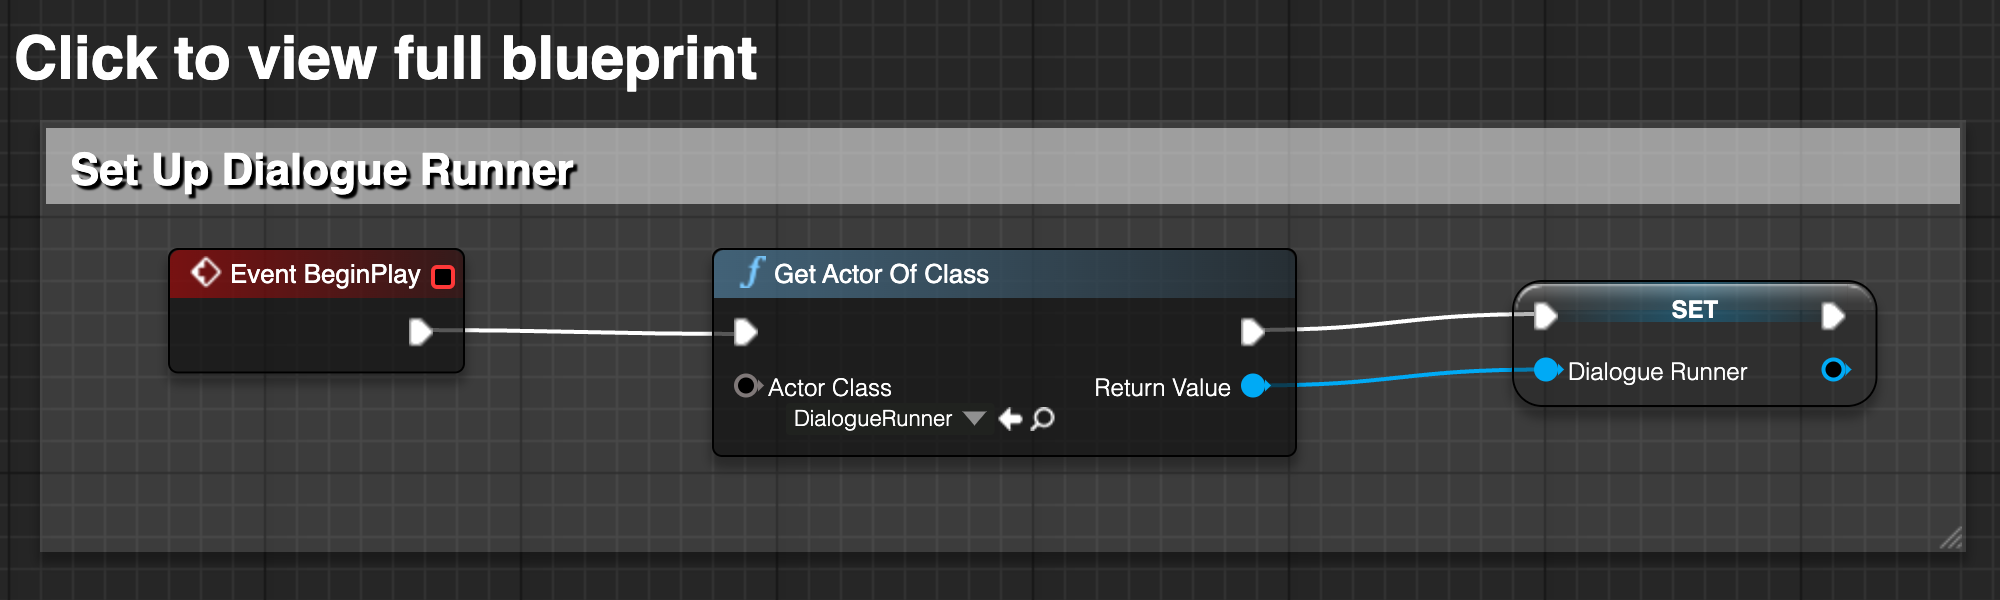
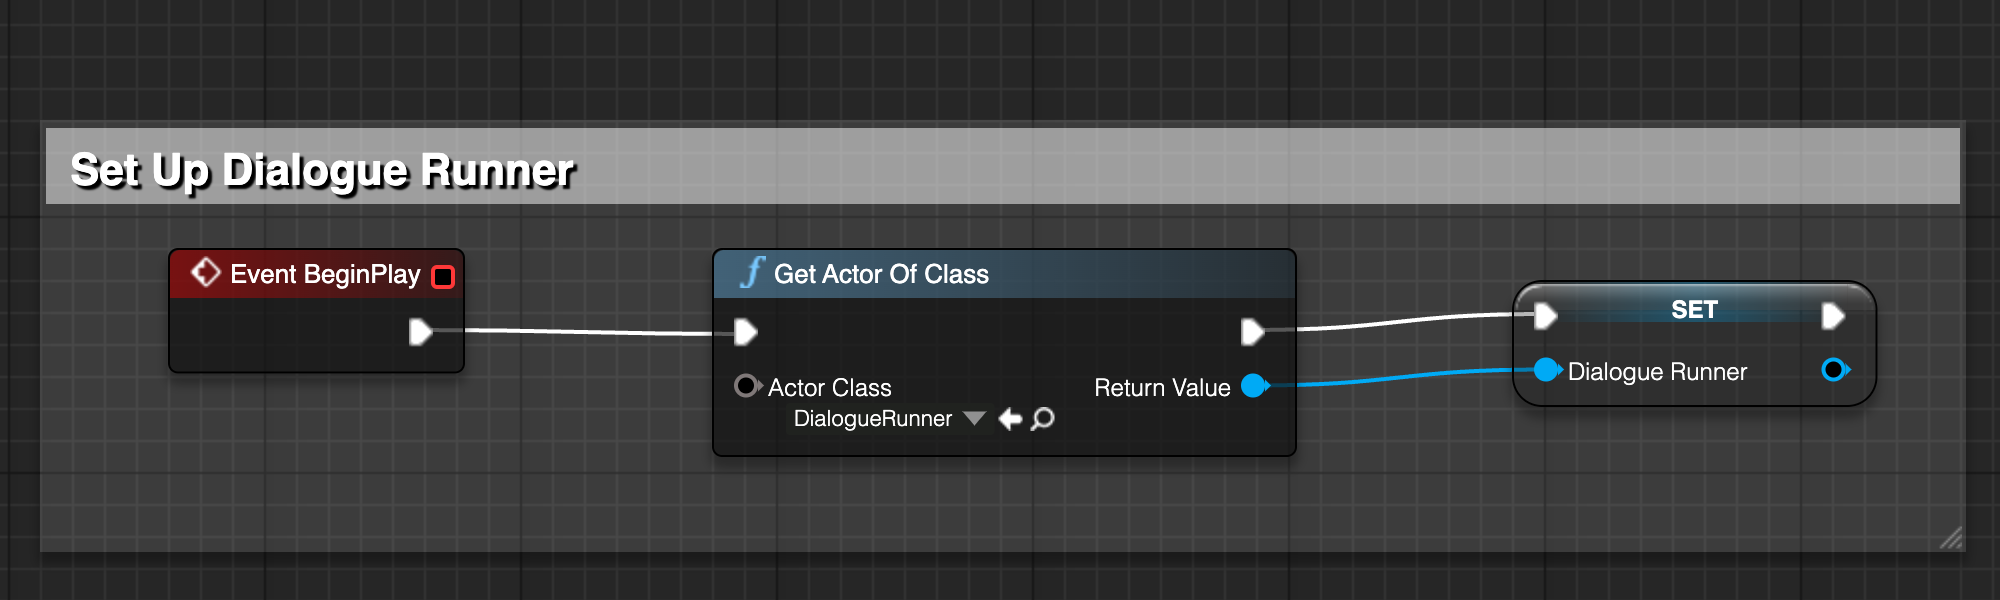
Update images

Changed region(s): [[0.0, 0.06, 0.403, 0.15]]

diff --git a/docs/using-yarnspinner-with-unreal/tutorial.md b/docs/using-yarnspinner-with-unreal/tutorial.md
@@ -122,18 +122,18 @@ We'll set up the scene so that there's a character you can walk up to and talk t
   * Add the IA\_Interact action to the graph.
 * Update the Event Graph to find and store the Dialogue Runner in the scene. Add the following nodes to the end of the existing BeginPlay event:
 
-<figure><a href="https://downloads.yarnspinner.dev/get/ue-tutorial/blueprint_html/BP_ThirdPersonCharacter_OnBeginPlay.html"><img src="../.gitbook/assets/YSUE-Tutorial-BP_ThirdPersonCharacter_OnBeginPlay.png" alt=""></a><figcaption><p>TODO CAPTION</p></figcaption></figure>
+<figure><img src="../.gitbook/assets/YSUE-Tutorial-BP_ThirdPersonCharacter_OnBeginPlay.png" alt=""><figcaption><p>TODO CAPTION</p></figcaption></figure>
 
 * Update the event graph to set and clear the CurrentInteractable variable when the player approaches an Interactable component:
 
-<figure><a href="https://downloads.yarnspinner.dev/get/ue-tutorial/blueprint_html/BP_ThirdPersonCharacter_OnComponentBeginOverlap.html"><img src="../.gitbook/assets/YSUE-Tutorial-BP_ThirdPersonCharacter_OnComponentBeginOverlap.png" alt=""></a><figcaption><p>TODO CAPTION</p></figcaption></figure>
+<figure><img src="../.gitbook/assets/YSUE-Tutorial-BP_ThirdPersonCharacter_OnComponentBeginOverlap.png" alt=""><figcaption><p>TODO CAPTION</p></figcaption></figure>
 
-<figure><a href="https://downloads.yarnspinner.dev/get/ue-tutorial/blueprint_html/BP_ThirdPersonCharacter_OnComponentEndOverlap.html"><img src="../.gitbook/assets/YSUE-Tutorial-BP_ThirdPersonCharacter_OnComponentEndOverlap.png" alt=""></a><figcaption><p>TODO CAPTION</p></figcaption></figure>
+<figure><img src="../.gitbook/assets/YSUE-Tutorial-BP_ThirdPersonCharacter_OnComponentEndOverlap.png" alt=""><figcaption><p>TODO CAPTION</p></figcaption></figure>
 
 *   Next, update the event graph to start the dialogue when the Interact key is pressed.
   * You'll need to click the disclosure arrow at the bottom of the IA Interact event to reveal the Started pin.
 
-<figure><a href="https://downloads.yarnspinner.dev/get/ue-tutorial/blueprint_html/BP_ThirdPersonCharacter_OnInteract.html"><img src="../.gitbook/assets/YSUE-Tutorial-BP_ThirdPersonCharacter_OnInteract.png" alt=""></a><figcaption><p>TODO CAPTION</p></figcaption></figure>
+<figure><img src="../.gitbook/assets/YSUE-Tutorial-BP_ThirdPersonCharacter_OnInteract.png" alt=""><figcaption><p>TODO CAPTION</p></figcaption></figure>
 
 * Finally, compile, save and close the blueprint.
 
@@ -170,12 +170,12 @@ In the content that you imported earlier, the lines are written in English, and 
 * Right click the Event Graph and choose Add Event -> Dialogue Runner -> Event On Run Line.
 *   Add the following nodes to the event:
 
-<figure><a href="https://downloads.yarnspinner.dev/get/ue-tutorial/blueprint_html/BP_GameDialogueRunner_OnRunLine.html"><img src="../.gitbook/assets/YSUE-Tutorial-BP_GameDialogueRunner_OnRunLine.png" alt=""></a><figcaption><p>TODO CAPTION</p></figcaption></figure>
+<figure><img src="../.gitbook/assets/YSUE-Tutorial-BP_GameDialogueRunner_OnRunLine.png" alt=""><figcaption><p>TODO CAPTION</p></figcaption></figure>
 
 
 * We'll also add an event to handle options. This will start empty, but we'll add to it.
 
-<figure><a href="https://downloads.yarnspinner.dev/get/ue-tutorial/blueprint_html/BP_GameDialogueRunner_OnRunOptions_Empty.html"><img src="../.gitbook/assets/YSUE-Tutorial-BP_GameDialogueRunner_OnRunOptions_Empty.png" alt=""></a><figcaption><p>TODO CAPTION</p></figcaption></figure>
+<figure><img src="../.gitbook/assets/YSUE-Tutorial-BP_GameDialogueRunner_OnRunOptions_Empty.png" alt=""><figcaption><p>TODO CAPTION</p></figcaption></figure>
 
 * Compile, save, and close the blueprint.
 * Play the game.
@@ -216,7 +216,7 @@ In this tutorial, we'll create buttons on screen for each option, and let the us
 * Drag the On Option Selected event dispatcher into the Event Graph, and choose 'Call' from the popup that appears.
 * Connect the On Clicked event for the button to the On Option Selected call:
 
-<figure><a href="https://downloads.yarnspinner.dev/get/ue-tutorial/blueprint_html/WBP_OptionButton_OnClicked.html"><img src="../.gitbook/assets/YSUE-Tutorial-WBP_OptionButton_OnClicked.png" alt=""></a><figcaption><p>TODO CAPTION</p></figcaption></figure>
+<figure><img src="../.gitbook/assets/YSUE-Tutorial-WBP_OptionButton_OnClicked.png" alt=""><figcaption><p>TODO CAPTION</p></figcaption></figure>
 
 * Compile, save and close the blueprint.
 
@@ -246,7 +246,7 @@ Next, we'll create the event that runs when an option has been selected.
 * Add an Input to the new event named Option, with the type Option.
   * Set up the event:
 
-<figure><a href="https://downloads.yarnspinner.dev/get/ue-tutorial/blueprint_html/WBP_OptionSelector_OptionSelected.html"><img src="../.gitbook/assets/YSUE-Tutorial-WBP_OptionSelector_OptionSelected.png" alt=""></a><figcaption><p>TODO CAPTION</p></figcaption></figure>
+<figure><img src="../.gitbook/assets/YSUE-Tutorial-WBP_OptionSelector_OptionSelected.png" alt=""><figcaption><p>TODO CAPTION</p></figcaption></figure>
 
 {% hint style="warning" %}
 **Compile the blueprint before continuing!**
@@ -257,25 +257,25 @@ If you don't, you won't be able to connect the buttons you're about to create to
 * Right click the Event Graph, and create a new Custom Event called `ClearButtons`.
   * Set up the event:
 
-<figure><a href="https://downloads.yarnspinner.dev/get/ue-tutorial/blueprint_html/WBP_OptionSelector_ClearButtons.html"><img src="../.gitbook/assets/YSUE-Tutorial-WBP_OptionSelector_ClearButtons.png" alt=""></a><figcaption><p>TODO CAPTION</p></figcaption></figure>
+<figure><img src="../.gitbook/assets/YSUE-Tutorial-WBP_OptionSelector_ClearButtons.png" alt=""><figcaption><p>TODO CAPTION</p></figcaption></figure>
 
 * Right click the Event Graph, and create a new Custom Event called CreateOptionButtons.
   * Add an Input to the new event named Options, with the type Array of Option.
   * Set up the event:
 
-<figure><a href="https://downloads.yarnspinner.dev/get/ue-tutorial/blueprint_html/WBP_OptionSelector_CreateOptionButtons.html"><img src="../.gitbook/assets/YSUE-Tutorial-WBP_OptionSelector_CreateOptionButtons.png" alt=""></a><figcaption><p>TODO CAPTION</p></figcaption></figure>
+<figure><img src="../.gitbook/assets/YSUE-Tutorial-WBP_OptionSelector_CreateOptionButtons.png" alt=""><figcaption><p>TODO CAPTION</p></figcaption></figure>
 
 * Right click the Event Graph, and create a new Custom Event called `ShowOptions`.
   * Add an Input to the new event named Options, with the type Array of Option.
   * Add an Input to the new event named PlayerController, with the type PlayerController.
   * Set up the event:
 
-<figure><a href="https://downloads.yarnspinner.dev/get/ue-tutorial/blueprint_html/WBP_OptionSelector_ShowOptions.html"><img src="../.gitbook/assets/YSUE-Tutorial-WBP_OptionSelector_ShowOptions.png" alt=""></a><figcaption><p>TODO CAPTION</p></figcaption></figure>
+<figure><img src="../.gitbook/assets/YSUE-Tutorial-WBP_OptionSelector_ShowOptions.png" alt=""><figcaption><p>TODO CAPTION</p></figcaption></figure>
 
 * Finally, right click the Event Graph, and add a Construct event (if one is not already present).
   * Set up the event:
 
-<figure><a href="https://downloads.yarnspinner.dev/get/ue-tutorial/blueprint_html/WBP_OptionSelector_Construct.html"><img src="../.gitbook/assets/YSUE-Tutorial-WBP_OptionSelector_Construct.png" alt=""></a><figcaption><p>TODO CAPTION</p></figcaption></figure>
+<figure><img src="../.gitbook/assets/YSUE-Tutorial-WBP_OptionSelector_Construct.png" alt=""><figcaption><p>TODO CAPTION</p></figcaption></figure>
 
 * Compile, save and close the blueprint.
 
@@ -287,12 +287,12 @@ If you don't, you won't be able to connect the buttons you're about to create to
 * Right click the Event Graph, and add a `BeginPlay` event, if one isn't already present.
   * Set up the event:
 
-<figure><a href="https://downloads.yarnspinner.dev/get/ue-tutorial/blueprint_html/BP_GameDialogueRunner_BeginPlay.html"><img src="../.gitbook/assets/YSUE-Tutorial-BP_GameDialogueRunner_BeginPlay.png" alt=""></a><figcaption><p>TODO CAPTION</p></figcaption></figure>
+<figure><img src="../.gitbook/assets/YSUE-Tutorial-BP_GameDialogueRunner_BeginPlay.png" alt=""><figcaption><p>TODO CAPTION</p></figcaption></figure>
 
 * Delete the On Run Options event you created earlier, and replace it with a new one.
   * Set up the event:
 
-<figure><a href="https://downloads.yarnspinner.dev/get/ue-tutorial/blueprint_html/BP_GameDialogueRunner_OnRunOptions_Complete.html"><img src="../.gitbook/assets/YSUE-Tutorial-BP_GameDialogueRunner_OnRunOptions_Complete.png" alt=""></a><figcaption><p>TODO CAPTION</p></figcaption></figure>
+<figure><img src="../.gitbook/assets/YSUE-Tutorial-BP_GameDialogueRunner_OnRunOptions_Complete.png" alt=""><figcaption><p>TODO CAPTION</p></figcaption></figure>
 
 * Compile, save and close the blueprint.
 * Play the game.
